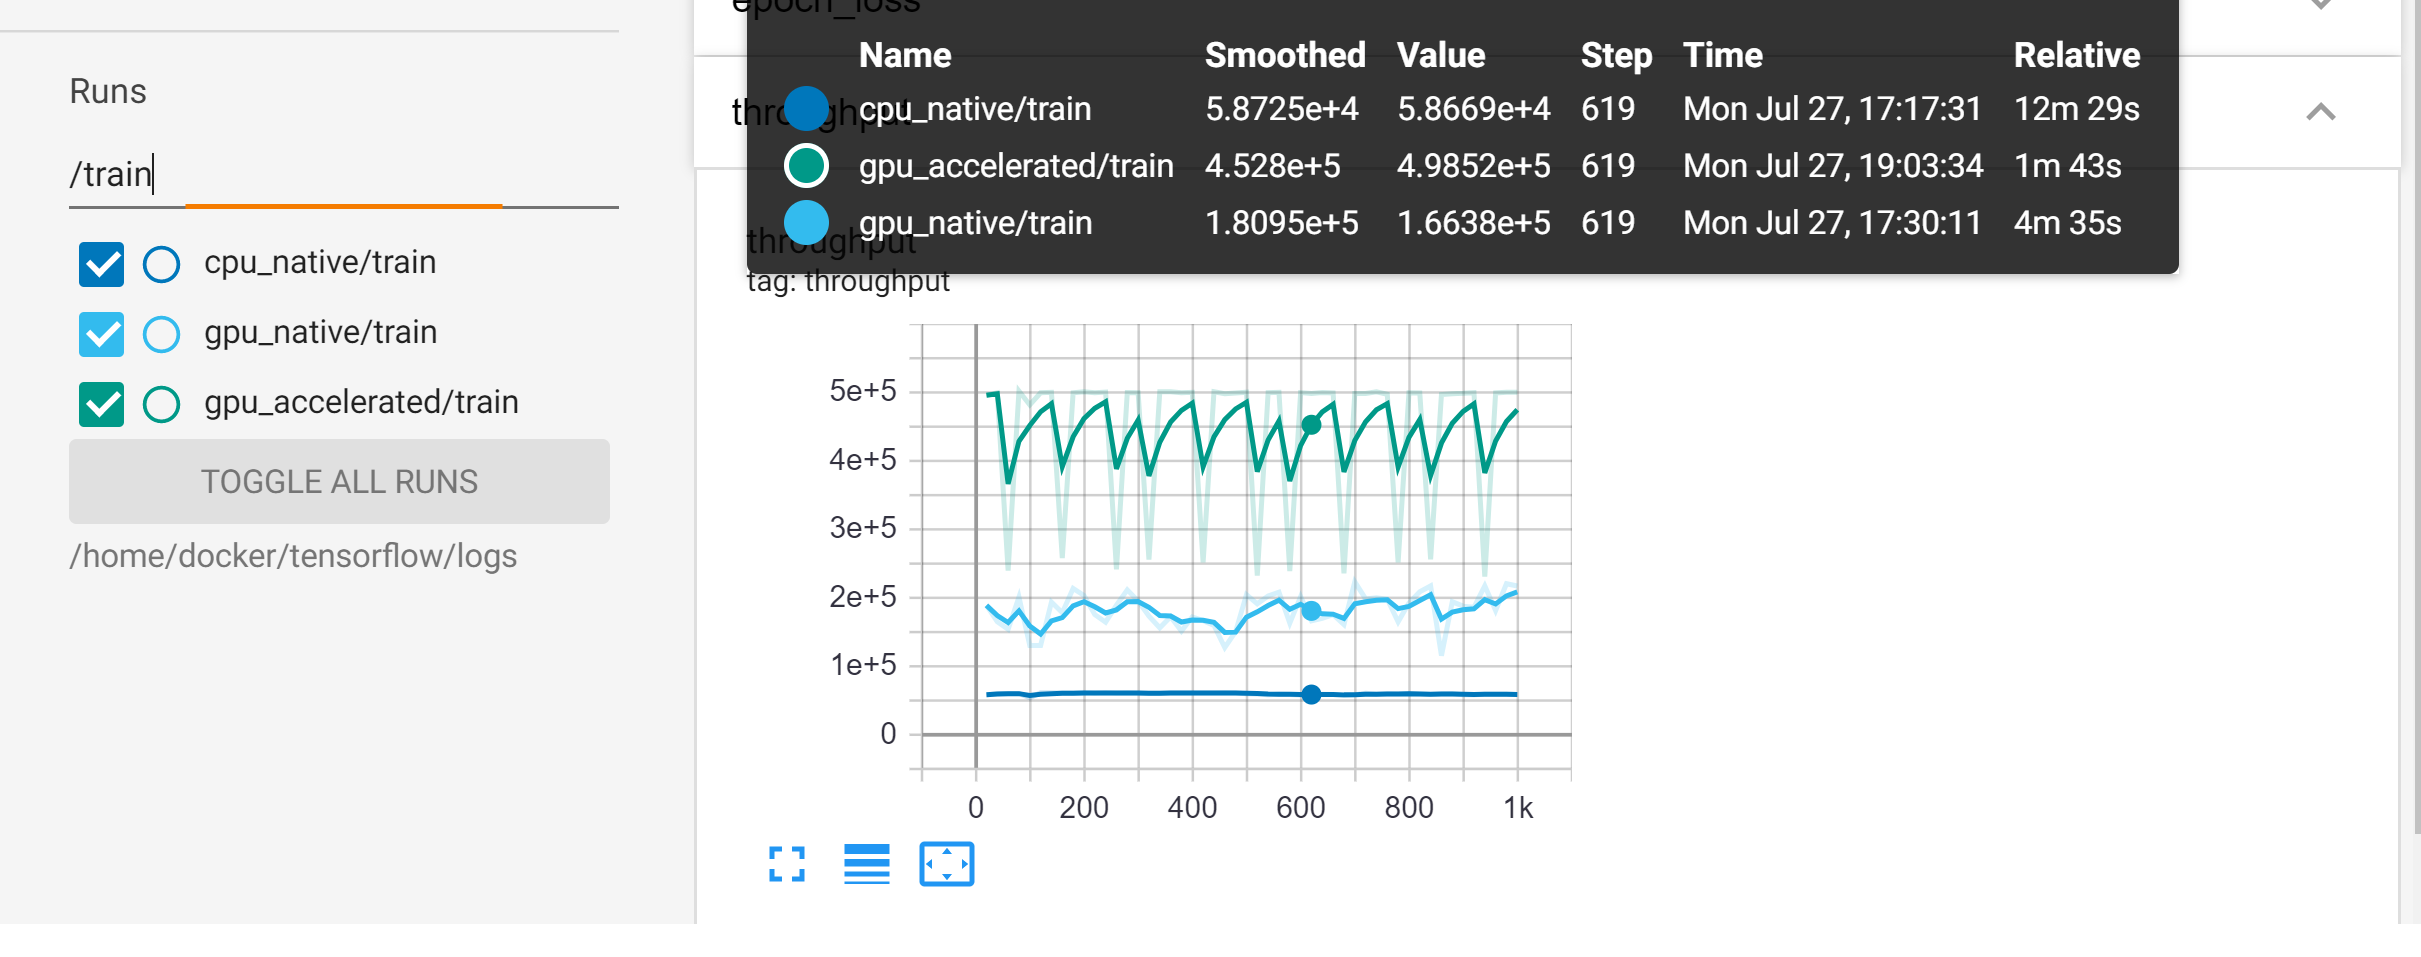
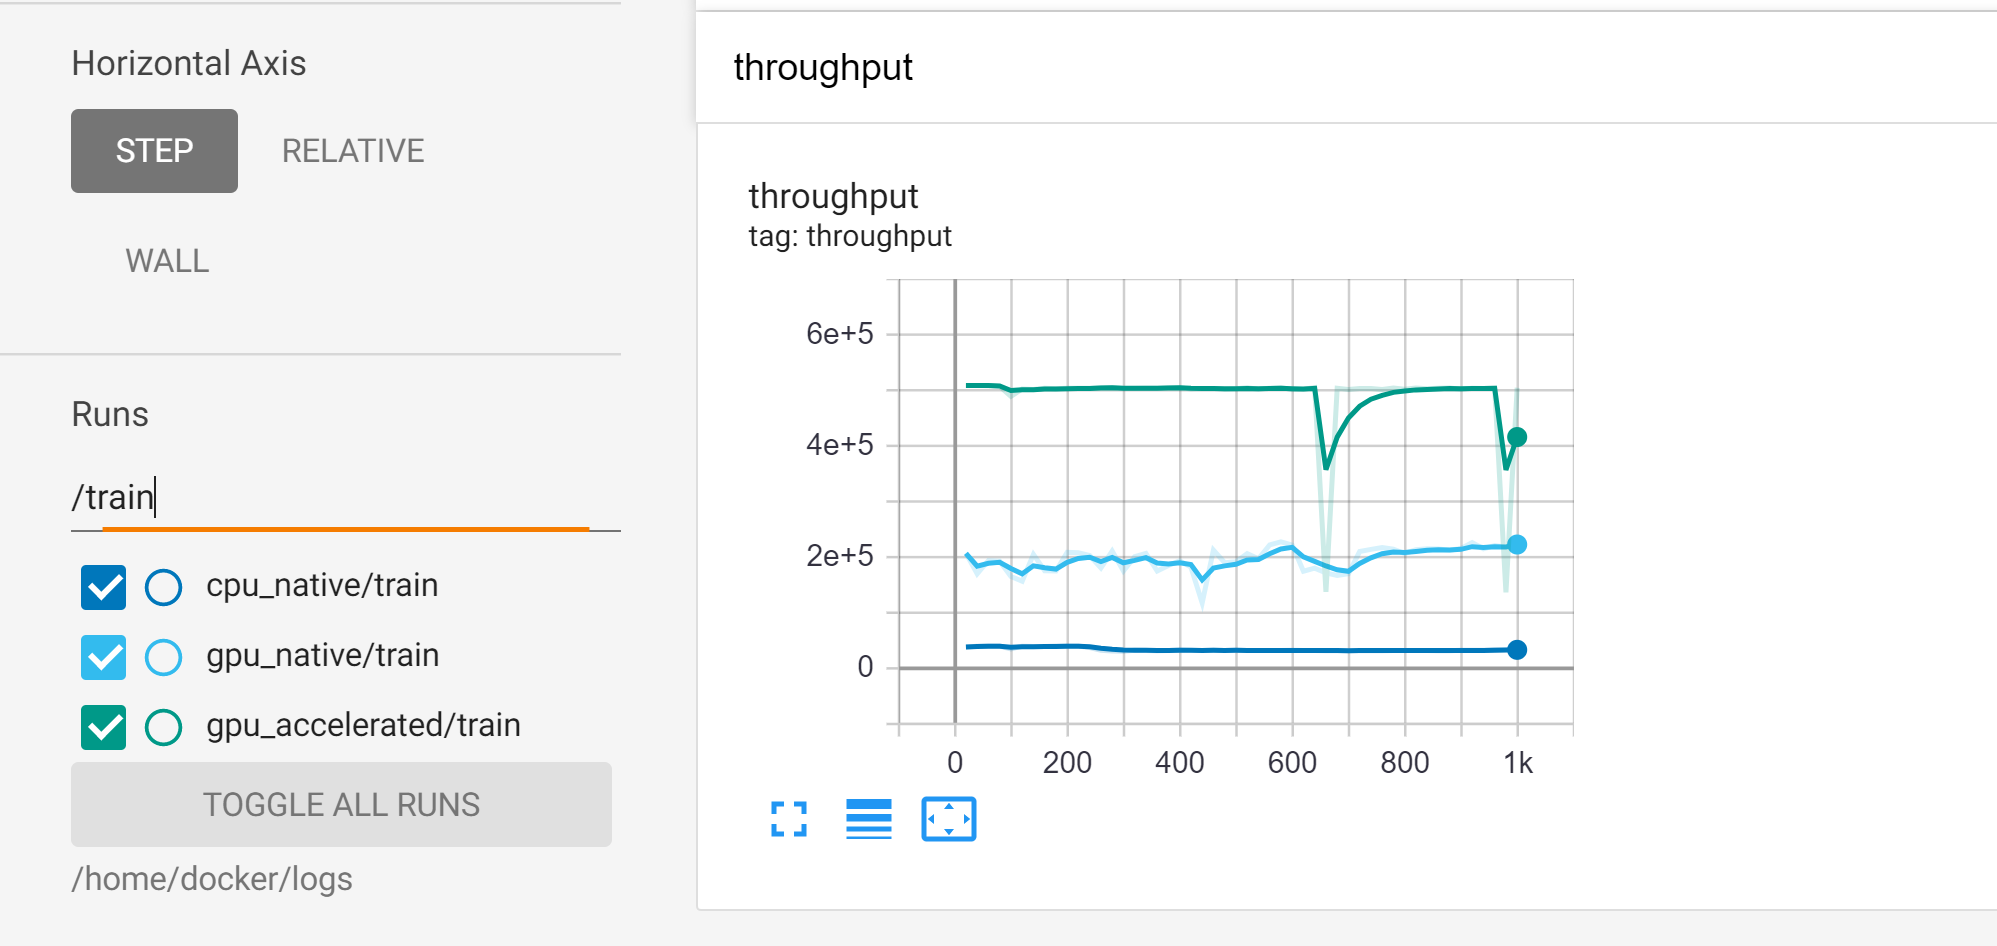
[WIP] Re-synchronizing data loaders (#262)
* adding synchronous behavior

* small bug fix

* updating tf notebook

* blackening

* getting rid of GPU context

* setting _itr to None at end of ChunkBuffer

* updating tf test

* fixing alive check in dummythread

* changing backend

* ignoring dockerfiles

* removing multi-gpu from torch test

* blackening

diff --git a/nvtabular/loader/backend.py b/nvtabular/loader/backend.py
@@ -28,6 +28,23 @@ def _num_steps(num_samples, step_size):
     return (num_samples - 1) // step_size + 1
 
 
+class _DummyThread:
+    def __init__(self, target, args):
+        dev, dataset = args
+        self._buff = dataset._buff
+        self._buff._itr = iter(target(dev, dataset))
+        self.daemon = False
+
+    def start(self):
+        pass
+
+    def join(self):
+        self._buff._itr = None
+
+    def is_alive(self):
+        return self._buff._itr is not None
+
+
 class ChunkQueue:
     """ This class takes partitions (parts) from an NVTabular dataset
        and concatenates them into a cudf dataframe "chunk". This chunk
@@ -55,16 +72,27 @@ class ChunkQueue:
         self.q_out = queue.Queue(qsize)
         self._stop_event = threading.Event()
 
+        # adding for sync behavior
+        self._itr = None
+
     @property
     def stopped(self):
         return self._stop_event.is_set()
 
     @property
     def empty(self):
-        return self.q_out.empty()
+        # ADDING FOR SYNC BEHAVIOR
+        # return self.q_out.empty()
+        return self._itr is None
 
     def get(self):
-        return self.q_out.get()
+        # ADDING FOR SYNC BEHAVIOR
+        # return self.q_out.get()
+        try:
+            return next(self._itr)
+        except StopIteration as e:
+            self._itr = None
+            raise e
 
     def put(self, packet):
         while True:
@@ -132,8 +160,10 @@ class ChunkQueue:
                         # put returns True if buffer is stopped before
                         # packet can be put in queue. Keeps us from
                         # freezing on a put on a full queue
-                        if self.put(chunks):
-                            return
+                        # ADDING FOR SYNC BEHAVIOR
+                        # if self.put(chunks):
+                        #     return
+                        yield chunks
                     chunks = None
 
                 # takes care final batch, which is less than batch size
@@ -142,9 +172,15 @@ class ChunkQueue:
                         spill = workflow.apply_ops(spill)
                     spill = dataloader._create_tensors(spill)
                     spill = dataloader._handle_tensors(*spill)
-                    self.put([spill])
+                    # ADDING FOR SYNC BEHAVIOR
+                    # self.put([spill])
+                    yield [spill]
         except Exception as e:
-            self.put(e)
+            # ADDING FOR SYNC BEHAVIOR
+            # self.put(e)
+            raise e
+
+        self._itr = None
 
     # For when an iterator is stopped before iteration is complete.
     def stop(self):
@@ -257,7 +293,8 @@ class DataLoader:
         # concatenating data
         self._workers = []
         for dev in self.devices:
-            t = threading.Thread(target=self._buff.load_chunks, args=(dev, self))
+            Thread = _DummyThread
+            t = Thread(target=self._buff.load_chunks, args=(dev, self))
             t.daemon = True
             t.start()
             self._workers.append(t)
@@ -299,14 +336,22 @@ class DataLoader:
         except StopIteration:
             # anticipate any more chunks getting created
             # if not, raise the StopIteration
-            if not self._working and self._buff.empty:
+            # ADDING FOR SYNC BEHAVIOR
+            # if not self._working and self._buff.empty:
+            #     self._workers = None
+            #     self._batch_itr = None
+            #     raise StopIteration
+            try:
+                self._fetch_chunk()
+            except StopIteration as e:
                 self._workers = None
                 self._batch_itr = None
-                raise StopIteration
+                raise e
 
             # otherwise get the next chunks and return
             # the first batch
-            self._fetch_chunk()
+            # ADDING FOR SYNC BEHAVIOR
+            # self._fetch_chunk()
             batch = next(self._batch_itr)
         return batch
 

diff --git a/nvtabular/loader/tensorflow.py b/nvtabular/loader/tensorflow.py
@@ -16,7 +16,7 @@
 import contextlib
 import os
 
-import cupy
+# import cupy
 import tensorflow as tf
 
 from nvtabular.io.dataset import Dataset
@@ -254,11 +254,15 @@ class KerasSequenceLoader(tf.keras.utils.Sequence, DataLoader):
 
     @contextlib.contextmanager
     def _get_device_ctx(self, dev):
-        with tf.device("/device:GPU:{}".format(dev)) as tf_device:
-            # tf.device changes the cupy cuda device, which breaks us on multigpu
-            # force cupy to still use the device we expect
-            cupy.cuda.Device(dev).use()
-            yield tf_device
+        # with tf.device("/device:GPU:{}".format(dev)) as tf_device:
+        #     # tf.device changes the cupy cuda device, which breaks us on multigpu
+        #     # force cupy to still use the device we expect
+        #     cupy.cuda.Device(dev).use()
+        #     yield tf_device
+        # commenting out since device statements cause
+        # RuntimeErrors when exiting if two dataloaders
+        # are running at once (e.g. train and validation)
+        yield dev
 
     def _to_tensor(self, gdf, dtype=None):
         if gdf.empty:

diff --git a/tests/unit/test_tf_dataloader.py b/tests/unit/test_tf_dataloader.py
@@ -59,7 +59,6 @@ def test_tf_gpu_dl(tmpdir, paths, use_paths, dataset, batch_size, gpu_memory_fra
     data_itr.map(processor)
 
     rows = 0
-    dont_iter = False
     for idx in range(len(data_itr)):
         X, y = next(data_itr)
 
@@ -74,7 +73,6 @@ def test_tf_gpu_dl(tmpdir, paths, use_paths, dataset, batch_size, gpu_memory_fra
                 next(data_itr)
             except StopIteration:
                 rows += num_samples
-                dont_iter = True
                 continue
             else:
                 raise ValueError("Batch size too small at idx {}".format(idx))
@@ -95,7 +93,11 @@ def test_tf_gpu_dl(tmpdir, paths, use_paths, dataset, batch_size, gpu_memory_fra
 
     assert (idx + 1) * batch_size >= rows
     assert rows == (60 * 24 * 3 + 1)
-    if not dont_iter:
+
+    # if num_samples is equal to batch size,
+    # we didn't exhaust the iterator and do
+    # cleanup. Try that now
+    if num_samples == batch_size:
         try:
             next(data_itr)
         except StopIteration:

diff --git a/tests/unit/test_torch_dataloader.py b/tests/unit/test_torch_dataloader.py
@@ -59,7 +59,7 @@ def test_empty_cols(tmpdir, df, dataset, engine):
 @pytest.mark.parametrize("part_mem_fraction", [0.000001, 0.06])
 @pytest.mark.parametrize("batch_size", [1, 10, 100])
 @pytest.mark.parametrize("engine", ["parquet"])
-@pytest.mark.parametrize("devices", [None, [0, 1]])
+@pytest.mark.parametrize("devices", [None])  # , [0, 1]])
 def test_gpu_dl(tmpdir, df, dataset, batch_size, part_mem_fraction, engine, devices):
     cat_names = ["name-cat", "name-string"]
     cont_names = ["x", "y", "id"]
